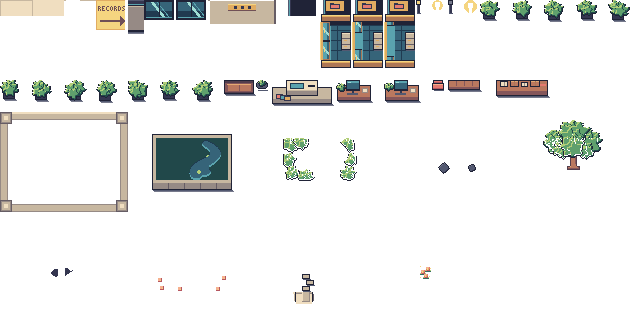
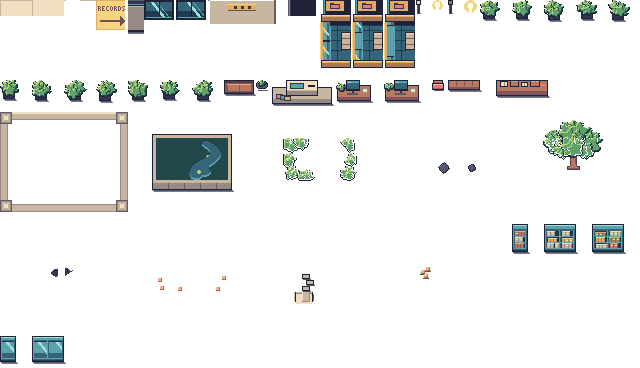
chore(art): final consistency pass and Orientation shelving and partitions

diff --git a/art-direction/kit/orientation_kit.py b/art-direction/kit/orientation_kit.py
@@ -6,7 +6,9 @@ pixels it painted (kitlib.capture), so the atlas is pixel-identical to the room 
 construction, and build_room.py proves it with a zero-pixel diff.
 
 New art lives only in the "new art" section at the bottom: the lamp's off and pulse
-states and the garden's "after" quest overlays. They use palette constants only.
+states, the garden's "after" quest overlays, and the shelving and glass partitions drawn
+by shared_pieces.py in the Orientation palette (spec coverage; the review room has none).
+They use palette constants only.
 """
 import os
 import sys
@@ -14,11 +16,13 @@ import sys
 import numpy as np
 
 HERE = os.path.dirname(os.path.abspath(__file__))
-for sub in ("gate1", "scale-test", "cast"):
+for sub in ("gate1", "scale-test", "cast", "palettes"):
     sys.path.insert(0, os.path.join(HERE, "..", sub))
 import build_scale_test as bst  # noqa: E402
+import district_palettes as dp  # noqa: E402
 import environment as env  # noqa: E402
 import kitlib  # noqa: E402
+import shared_pieces as shp  # noqa: E402
 
 T = 16
 W, H = env.W, env.H  # 320 x 192
@@ -521,6 +525,44 @@ def lamp_glow_pulse(lamp_body_mask, cx, cy, fp):
                  tags=["lamp", "glow", "pulse"])
 
 
+# ---- shelving and glass partitions (spec coverage; not placed in the review room)
+
+PAL = shp.Pal("orientation")
+
+
+def shelf_triples():
+    """(light, body, dark) file-box colours: brass, stone and wood mostly. Coral and garden green are one
+    slot in twelve each, so a run of them reads as the occasional odd box, not a rainbow."""
+    def tri(r):
+        return (r[3], r[2], r[1])
+    D = dp.DISTRICTS["orientation"]
+    brass, stone, wood = tri(D["accent"]), tri(D["floor"]), tri(D["wood"])
+    return [brass, stone, wood] * 3 + [tri(dp.ORIENTATION_EXTRA["coral"]), tri(D["foliage"]), stone]
+
+
+def shared_pieces():
+    out = []
+    sx, sy = 64, 64
+    tri = [tuple(bst.hx(h) for h in t) for t in shelf_triples()]
+    note_shelf = ("{n}-cell archive shelving: blue-glass frame with a lit top plane, front face with three bays, "
+                  "file boxes in brass, stone and wood runs with the odd coral or garden box, kick plate")
+    out.append(make("shelf_1x1", lambda r: shp.shelf(r, sx, sy, 1, PAL, 3, tri), (sx, sy + shp.SHELF_H - 16), (1, 1), ["1"],
+                    "rear_prop", "prop", y_sort=True, note=note_shelf.format(n=1), tags=["shelf", "shelving", "archive"]))
+    for nm, seed in (("shelf_2x1_a", 1), ("shelf_2x1_b", 2)):
+        out.append(make(nm, lambda r, seed=seed: shp.shelf(r, sx, sy, 2, PAL, seed, tri), (sx, sy + shp.SHELF_H - 16), (2, 1), ["11"],
+                        "rear_prop", "prop", y_sort=True, note=note_shelf.format(n=2) + "; a and b differ only in the box layout",
+                        tags=["shelf", "shelving", "archive"]))
+    out.append(make("partition_1x1", lambda r: shp.partition(r, sx, sy, 1, PAL), (sx, sy + shp.PART_H - 16), (1, 1), ["1"],
+                    "rear_prop", "prop", y_sort=True,
+                    note="free-standing glass partition, one cell: dark frame with lit cap, cool pane, one reflection band, floor rail",
+                    tags=["partition", "glass"]))
+    out.append(make("partition_2x1", lambda r: shp.partition(r, sx, sy, 2, PAL), (sx, sy + shp.PART_H - 16), (2, 1), ["11"],
+                    "rear_prop", "prop", y_sort=True,
+                    note="free-standing glass partition, two cells, with a middle post and a reflection band per pane",
+                    tags=["partition", "glass"]))
+    return out
+
+
 # ------------------------------------------------------------------ assembly
 
 def build_pieces():
@@ -548,6 +590,7 @@ def build_pieces():
     extract_props(pieces, placements)
     extract_garden(pieces, placements)
     pieces.extend(garden_after_pieces())
+    pieces.extend(shared_pieces())
     mail = [p for p in placements if p[0] == "mail_counter"]
     placements = [p for p in placements if p[0] != "mail_counter"] + mail
     return pieces, placements, anims
@@ -600,6 +643,8 @@ def group_rank(p):
         return 3
     if n.startswith("garden_"):
         return 5
+    if n.startswith(("shelf_", "partition_")):
+        return 6
     return 4
 
 

diff --git a/art-direction/kit/build_kit.py b/art-direction/kit/build_kit.py
@@ -27,7 +27,8 @@ import build_scale_test as bst  # noqa: E402
 CORAL_MARK = "#EC776D"
 BG = "#151C2B"
 SECTIONS = [(0, "FLOOR AND ROUTE"), (1, "WALLS"), (2, "SLIDING GLASS DOOR (closed, half, open)"),
-            (3, "LAMP (post, off, glow states)"), (4, "PROPS"), (5, "GARDEN LANDMARK (registered parts)")]
+            (3, "LAMP (post, off, glow states)"), (4, "PROPS"), (5, "GARDEN LANDMARK (registered parts)"),
+            (6, "SHELVING AND GLASS PARTITIONS (spec coverage, not placed in the review room)")]
 
 
 def build_atlas():

diff --git a/README.md b/README.md
@@ -42,7 +42,7 @@ When documents disagree, the owner below wins. Fix the other document instead of
 - **UI kit** (`art-direction/ui-kit/`) **approved by the director 2026-10-02**. The six anchor hexes keep their roles. Lighter text tokens (`#36C3B6`, `#F2928A`, `#B79FEA`) carry teal, coral and violet text at WCAG AA. No text sits on violet fills. Body text is 18 px, with a 16 px minimum. A held key is never shown by colour alone. Markers are a speech bubble, a monitor, a diamond with a doorway and a folded page, and stay distinct in greyscale. The inset header names the `nav` layer and holds the timing. Proposed key bindings: Return to continue, Esc to skip, Tab for the journal, `?` for Layout help. Layout help draws only the `nav` tab; the other tabs are specified in `COMPONENTS.md`.
 - **District palettes and new cast ramps approved by the director 2026-10-02** (`art-direction/palettes/PALETTES_SPEC.md`, STYLE_BIBLE §3). Each district has 8 ramps × 4 steps, with the ink and violet ramps shared verbatim. Floor and wall steps may never fall in the violet family (hue 260–320° above 12% saturation), so glitches keep violet to themselves. Night Shift has a cool slate floor; people there get a 1 px `#F9D79A` rim on the upper-left contour. Systems' mint foliage counts as a device ramp. Floor contrast is tested on the outline (3:1 or better) and on at least 45% of body pixels, not on every mid tone. Revised once: the plum Night Shift floor became slate, and Ada's burgundy skin became deep warm brown.
 - **Background workers approved by the director 2026-10-02** (`art-direction/cast/BACKGROUND_WORKERS_SPEC.md`). There are two prop-free bodies (A slim with a side-parted crop, B with a longer centre-parted cut) in three colourways: slate, olive and ash. Clothing stays at 30% saturation or below so workers recede behind the named cast. Until level 06, workers play the standard walk on one shared clock; after it, they play idles at random offsets. Each body has three individual idles (phone, coffee, typing) and two silhouette variants for figures seen through glass. Seated work waits for the desk occluders.
-- **Orientation environment kit approved by the director 2026-10-02** (`art-direction/kit/ORIENTATION_KIT_SPEC.md`). Its 48 atlas entries were extracted from the approved drawing functions, not redrawn. Every entry declares its footprint, collision, layer and anchor, all validated against `kit/atlas.schema.json`, which is shared by every district. The review room rebuilt from `orientation-review-room.json` is pixel-identical to the approved room. Off-grid props use 0–15 px offsets. Door states are closed, half and open; only open is walkable. Lamp states are off, on and pulse. In the garden's after state (the level 06 review), the cut-through opens, a bloom cluster appears and the lamps pulse. Revised once to give the cut-through capped rim ends and a threshold. Shelving, free-standing glass partitions and terminal desks start in the Records kit.
+- **Orientation environment kit approved by the director 2026-10-02** (`art-direction/kit/ORIENTATION_KIT_SPEC.md`). Its 48 original atlas entries were extracted from the approved drawing functions, not redrawn. Every entry declares its footprint, collision, layer and anchor, all validated against `kit/atlas.schema.json`, which is shared by every district. The review room rebuilt from `orientation-review-room.json` is pixel-identical to the approved room. Off-grid props use 0–15 px offsets. Door states are closed, half and open; only open is walkable. Lamp states are off, on and pulse. In the garden's after state (the level 06 review), the cut-through opens, a bloom cluster appears and the lamps pulse. Revised once to give the cut-through capped rim ends and a threshold. Shelving and glass partitions were added afterwards in the Orientation palette (53 entries) for spec coverage; they are not placed in the review room. The terminal desk starts in the Records kit.
 - **Extra animation sets for the Engineer, Ivo and Mira approved by the director 2026-10-02.** Each module now carries `EXTRA`, `EXTRA_MS`, `EXTRA_MODE` and `EXTRA_ASYMMETRIC`. Extra frames get the idle checks, and asymmetric sets are allowed 30% mass balance instead of 20%. Timings: interact 250 ms, reactions 300 ms (they play once and hold the last frame), quick turn 60 ms. The Engineer's reactions are concerned and satisfied, Ivo's questioning and relieved, Mira's pleased and confiding. Ivo's Level 03 tablet flash may exceed the 1 px glint limit on its bright frame; this is a recorded exception. Revised once: Ivo's laugh now uses 2 px ink squint lines and a head tipped back with a shoulder bounce, because the sideways head slide read as "no". The Engineer's superset atlas is `gate1/engineer-full-atlas.*`.
 - **Glitch archetypes approved by the director 2026-10-02** (`art-direction/glitches/GLITCHES_SPEC.md`). The displaced stapler (32×16, ink ramp, violet outline ghost offset), the duplicate chair shadow (the room's coral chair plus a flat violet shadow cast toward the light) and the folded form all read as the ordinary object first. Violet appears only as a cue and a 1–2 step core, and never covers the housing contour. Roam has 4 frames; misregister has 2 frames at 80 ms. Repaired means one frame snaps into register, then the ordinary prop stays and stops roaming (this closes open question 2 in `glitches.md`); the repaired frames are not drawn yet. Revised once, because the first stapler read as a loaf and the first chair shadow as a purple box.
 - **Portraits and Mira's patches approved by the director 2026-10-02** (`art-direction/portraits/PORTRAITS_SPEC.md`, `PORTRAIT_RULES.md`, `art-direction/cast/MIRA_PATCHES_SPEC.md`). All portraits share one 48×48 template: eye line on rows 19–20, chin on row 32, shoulders from row 35. Each uses only its world sprite's palette keys. The standard expressions are neutral, concerned and pleased; pleased is a closed-eye smile. Mira's patches are cumulative 2 px overlays on her approved frames (`mira_sprites.py` is unchanged), repeated as 4–6 px icons in her portrait. The only new hexes are brass `#E1AC62` and `#F5D580`. Revised once: Ivo's portrait hair was rebuilt as strand clusters with a dipping forelock to avoid the helmet look.
@@ -59,6 +59,7 @@ When documents disagree, the owner below wins. Fix the other document instead of
 - **Executive kit and atrium tree approved by the director 2026-10-02** (`art-direction/kit/EXECUTIVE_KIT_SPEC.md`). The landmark is a tall oval tree in a raised round planter inside a sunken well, with a glass balustrade and south steps, so it reads clearly apart from the Orientation garden. Copper is used for trim, arrows and rails. Windows, window light and the final door are state sets. The after state (`levels.md` 20) changes five things: the copper floor lines straighten into paths, the nameplates become distinct, the clipped-cube planters become varied shrubs, a daylight pool lights the well, and the lamps pulse. Vale's contour separates from every navy surface (ΔE ≥ 13.3).
 - **Night Shift kit and long interior window approved by the director 2026-10-02** (`art-direction/kit/NIGHTSHIFT_KIT_SPEC.md`). Pieces are reused by exact hex swap, with two Night Shift passes: contact shadows step down to floor step 0 and `#202337`, and prop and wall top-left edges get a silver `#D0D4E4` edge wherever they fall below 3:1. People keep the warm rim, so furniture and people never share an edge colour. Lamp pools are `where_color` light entries bundled with desk stations. A security vestibule gate closes the old route, and the Caps route runs to the service door. The landmark is a 12-cell break-room window. Its after state lights the room behind it warm, shows three coworker silhouettes, casts warm light bands on the floor and pulses the end lamps. **Rim rule extended:** the renderer also rims any upper-left person pixel below 3:1 against the floor (`rim_light_ext`), which brings the Engineer to 100% edge coverage; Ada's baked rim is untouched. Measured readability: people's rims 5.26:1 on the floor and 2.68:1 in pools; furniture edges at least 4.92:1.
 - **Developer handoff approved by the director 2026-10-02** (`art-direction/ART_HANDOFF.md`). It is the single entry point for implementation: renderer rules, anchors, every atlas and layout format, the UI contract, an asset index of 107 checked paths, and known gaps. `art-direction/build_all.py` runs all 43 checks and builds in order. A full run on a clean checkout leaves `git status` unchanged (verified).
+- **Final consistency pass done 2026-10-02 (task 11.2).** All five district atlases now cover the environment spec's piece list (floor, edges and inlays, walls, glass partitions, doors, desks, seating, shelving, planters, terminals). Orientation gained Orientation-palette shelving and partitions, and its review room is still a zero-diff rebuild. Approved sources no longer say "Candidate". Pace's layer names now match the kit, and every character brief points to its pixel spec. `build_all.py` passes 43/43 and `openspec validate complete-art-production` passes. The only task still open is 2.1: removing the untracked `art-direction/production/` folder needs the player's approval.
 
 ## Open decisions
 

diff --git a/art-direction/kit/ORIENTATION_KIT_SPEC.md b/art-direction/kit/ORIENTATION_KIT_SPEC.md
@@ -11,12 +11,12 @@ The atlas is **extracted** from the approved room, not redrawn. Each piece is ma
 | File | What it is |
 | --- | --- |
 | `kitlib.py` | Generic helpers reused by every district: capture, pack, atlas loader, layout renderer, collision grid |
-| `orientation_kit.py` | Orientation extraction recipes and the new art (lamp off and pulse, garden "after" parts) |
+| `orientation_kit.py` | Orientation extraction recipes and the new art (lamp off and pulse, garden "after" parts, shelving and partitions) |
 | `atlas.schema.json` | JSON Schema for any `*-atlas.json` (generic) |
 | `check_atlas.py` | Validates every `*-atlas.json` and `*-review-room.json` in this folder |
 | `build_kit.py` | Writes every output below, then runs the zero-diff proof |
 | `build_room.py` | Rebuilds the room from atlas plus layout and compares it with the approved room and scene |
-| `orientation-atlas.png` / `.json` | 48 entries on a 640×336 px sheet, 16 px grid |
+| `orientation-atlas.png` / `.json` | 53 entries on a 640×368 px sheet, 16 px grid |
 | `orientation-review-room.json` | Cell layout: floor grid plus 129 placements |
 | `orientation-atlas-sheet.png` | Every entry at ×4 with footprint, collision, anchor, shadow and labels |
 | `orientation-garden-states.png` | Garden before, after and changed pixels at ×4 |
@@ -67,6 +67,7 @@ Rebuild: `python3 build_kit.py`. Check: `python3 check_atlas.py`. Both need Pill
 | Door | `records_door_closed`, `_half`, `_open`; state set `records_door` |
 | Lamp | `lamp`, `lamp_off`, `lamp_glow_on`, `lamp_glow_pulse`; state set `lamp` (off, on, pulse) |
 | Props | `pot_plant_a` to `_l` (12 leaf layouts), `sofa`, `side_table`, `printer`, `desk_a/b`, `chair`, `bench`, `mail_counter` |
+| Shelving and partitions | `shelf_1x1`, `shelf_2x1_a/b`, `partition_1x1`, `partition_2x1` (`rear_prop`, `y_sort`, tags `shelving` / `partition`). Not placed in the review room |
 | Garden parts | `garden_ring`, `garden_base`, `garden_foliage`, `garden_rocks`, `garden_centrepiece`, `garden_canopy_shadow`, `garden_blooms`, `garden_after_path`, `garden_after_blooms` |
 
 Placing the desk gives a 2×1 footprint (`11`), layer `rear_prop`, `y_sort`, and a contact shadow at `[2, 21, 35, 2]` in its sprite. The mail counter is `front_prop`, so people walk behind it.
@@ -107,5 +108,6 @@ Final result: **0 differing pixels in all nine comparisons.**
 10. **Landmark parts are registered full-size sprites.** All share one origin, so a state is just a part list and switching state never shifts a pixel. The cost is atlas area, which is small.
 11. **Footprint rounding.** Footprints round the body to the nearest cell: the 34 px desk is 2 cells, the 52 px counter 3, the 60 px printer 4. Chairs and plants block. Level data may override.
 12. **Pot plants.** The 12 planters differ only in leaf layout (seeded), so they are 12 entries `pot_plant_a` to `_l`, the same as the room. A district that wants fewer variants can reuse a subset.
-13. **Known gaps against the environment-kit spec.** The approved Orientation room has no shelving, free-standing glass partition or separate terminal desk. Glass is the north wall bays and the printer is the terminal. Records and later district kits add shelving and partitions. The atlas format and checker already support them.
+13. **Known gaps against the environment-kit spec.** The approved Orientation room has no shelving, free-standing glass partition or separate terminal desk. Glass is the north wall bays and the printer is the terminal. Records and later district kits add shelving and partitions, and decision 15 later adds them to this atlas too. The separate terminal desk is still absent here.
 14. **Cut-through opening, finished (director review).** The first version was a flat floor-coloured rectangle and read as missing pixels. It is now a built opening: end caps with contour on the cut faces, a two-tone threshold step and an inlaid strip that continues the flagstones. Still the registered part `garden_after_path`, before state untouched. The opening sits at x 112 to 128, y 124 to 134, which the keyboard inset partly covers at ×4. It is a bonus change; the blooms and lamps stay visible. Move it in the implementation level layout if needed. The part carries its own floor pixels, so the slab joint that crosses the opening in the floor layer is hidden there.
+15. **Shelving and partitions added for spec coverage, not placed in the review room.** The environment-kit spec requires both in every district atlas, and the approved room has neither. Five entries (`shelf_1x1`, `shelf_2x1_a/b`, `partition_1x1`, `partition_2x1`) are drawn with the shared `shared_pieces.py` functions in the Orientation palette: blue-glass frames, warm stone, wood and brass file boxes (coral and garden green are rare slots). They are appended in their own sheet section after the garden, so every earlier entry keeps its exact pixels, metadata and atlas rect; the review-room layout is unchanged and the rebuild still shows zero differing pixels. Atlas colours stay inside the Orientation palette (27 distinct, no marker hexes, no violet). Level layouts may place them freely.

diff --git a/art-direction/PRODUCTION_STATUS.md b/art-direction/PRODUCTION_STATUS.md
@@ -49,6 +49,7 @@ This is the living production file. **Developers start at [ART_HANDOFF.md](ART_H
 | Executive kit (63 entries), atrium tree before/after, reference room | [kit/EXECUTIVE_KIT_SPEC.md](kit/EXECUTIVE_KIT_SPEC.md) | kit/executive_kit.py | 2026-10-02 (director) |
 | Night Shift kit (61 entries), long interior window before/after, reference room, readability report | [kit/NIGHTSHIFT_KIT_SPEC.md](kit/NIGHTSHIFT_KIT_SPEC.md) | kit/nightshift_kit.py | 2026-10-02 (director) |
 | Developer handoff: asset index, formats, anchors, layers, tokens, rebuild (build_all.py, check_handoff.py) | [ART_HANDOFF.md](ART_HANDOFF.md) | build_all.py, check_handoff.py | 2026-10-02 (director) |
+| Final consistency pass: Orientation shelving and partitions added (53 entries), statuses, briefs, Pace layer names, handoff | ART_HANDOFF.md, kit/ORIENTATION_KIT_SPEC.md | kit/orientation_kit.py | 2026-10-02 (director) |
 
 ## Plan
 

diff --git a/openspec/changes/complete-art-production/tasks.md b/openspec/changes/complete-art-production/tasks.md
@@ -67,4 +67,4 @@
 ## 11. Developer handoff
 
 - [x] 11.1 `ART_HANDOFF.md` covering the asset index, atlas and JSON formats, anchors, layers, tokens and rebuild steps; verify every listed file exists
-- [ ] 11.2 Final consistency pass across specs, briefs and the README log; verify `openspec validate complete-art-production` passes and the change is ready to archive
+- [x] 11.2 Final consistency pass across specs, briefs and the README log; verify `openspec validate complete-art-production` passes and the change is ready to archive
